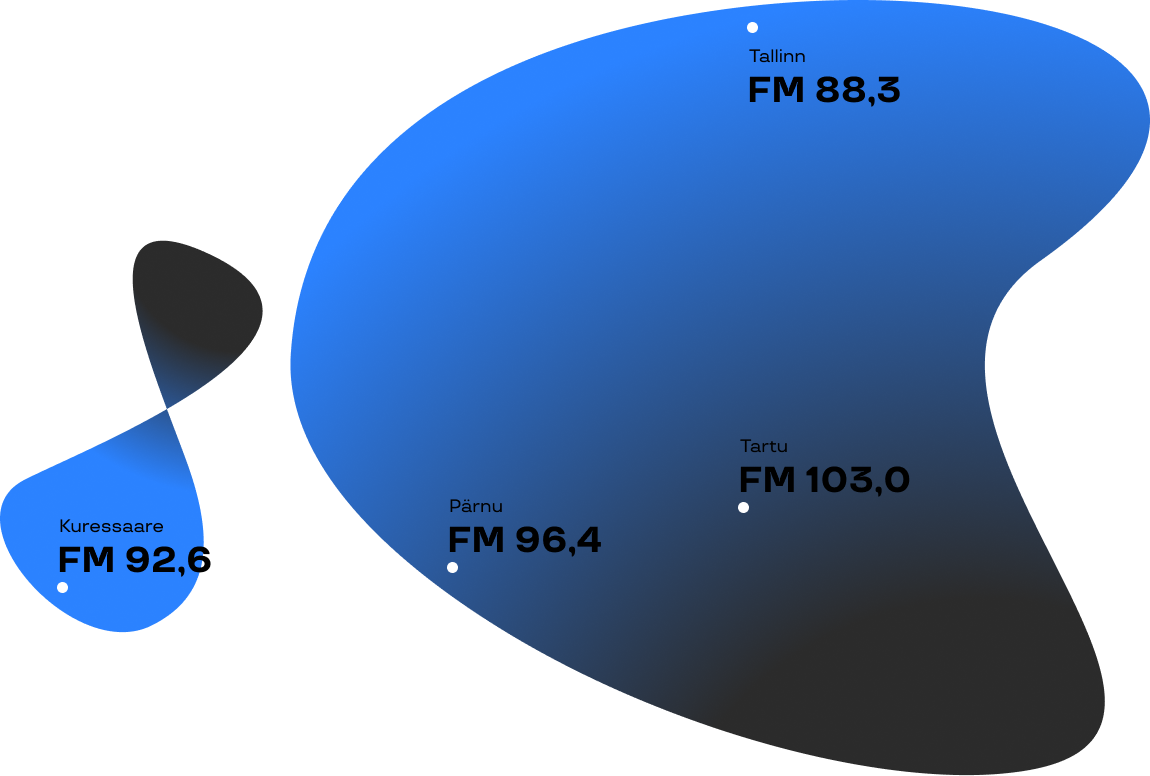
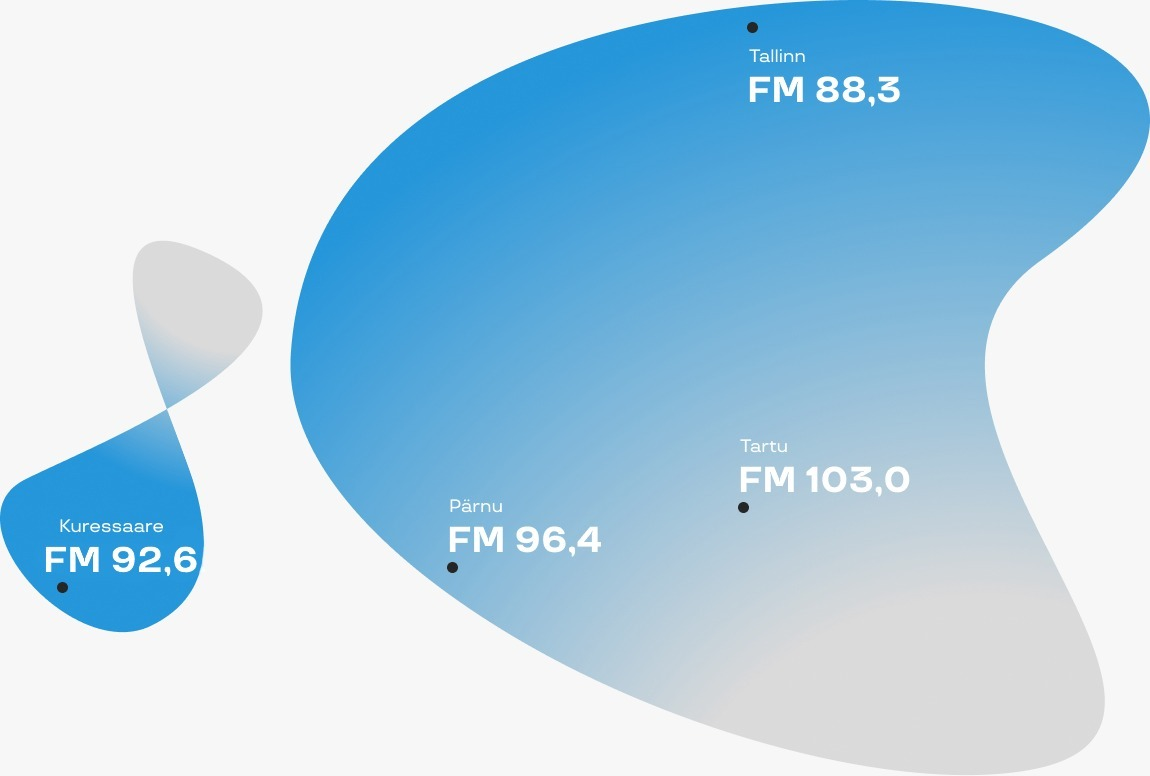
refactoring

diff --git a/index2.html b/index2.html
@@ -41,16 +41,12 @@
             </ul>
          </div>    
          <div class="col-md-1">
-            <img src="assets/languages-ru.svg">
-            <!-- <img src="assets/language-ee.svg"> -->
-            <!-- add link to page with another language -->
+            <a href= "/index.html"><img src="assets/languages-ru.svg"></div></a>
          </div>
       </nav>
 
-      <!-- player -->
       <div class="player">
     
-
         <input type="checkbox" id ="nav-toggle" class="nav-toggle">
         <div class= "nav-relax">
           <ul>
@@ -58,11 +54,11 @@
             <li><a id="RadioRelaxInternationalStream" href="#">Relax International</a></li>
             <li><a id="RadioRelaxIndoorStream" href="#">Relax Indoor</a></li>
             <li><a id="RadioRelaxCafeStream" href="#">Relax Cafe</a></li>
-            <li><a id="RadioRelaxStream" href="#">Relax ET</a></li>
+            <li><a id="RadioRelaxStream" href="#">Radio Relax</a></li>
           </ul>
         </div>
           <label for="nav-toggle" class="nav-toggle-label">
-            <span class="button-pl"><h1>Relax Radio</h1></span>
+            <span class="button-pl"><h1>Русский Relax</h1></span>
           </label>
           
               <div class="controls-pl">
@@ -77,10 +73,8 @@
                       <h1></h1> <h2><strong>Queen</strong>  --  Radio Gaga</h2>
   
                   </div>
-                  <!-- <div class="play-icon-volume"> -->
                      
                     <i class="play-icon-volume sound-up-down fa fa-volume-up"></i> 
-                  <!-- </div> -->
                   <div class="slidecontainer">
                       <input type="range" min="1" max="100" value="50" class="slider" id="myRange" oninput="SetVolume(this.value)" onchange="SetVolume(this.value)">
                   </div>
@@ -88,21 +82,19 @@
             </div>
 
     <section id="home">
-      <br class="first-line">
       <div class="slideshow-container">
-        
-
-        <div class="mySlides fade-animation">
-          <a href= "https://fb.com/relaxfm.ee"  target="_blank"><img src="img/banner3.png"  class="image-banner"></a>
-        </div>
-
-        <div class="mySlides fade-animation">
-            <img src="img/banner1.png" class="image-banner">
-          </div>
 
         <div class="mySlides fade-animation">
           <img src="img/banner2.png" class="image-banner">
         </div>
+
+        <div class="mySlides fade-animation">
+            <a href= "https://fb.com/relaxfm.ee"  target="_blank"><img src="img/banner1.png"  class="image-banner"></a>
+          </div>
+             
+      <div class="mySlides fade-animation">
+        <img src="img/banner3.png" class="image-banner">
+      </div>
 
         <a class="prev" onclick="plusSlides(-1)"><img src="/assets/arrow-left.svg"/></a>
         <a class="next" onclick="plusSlides(1)"><img src="/assets/arrow-right.svg"/></a>
@@ -118,7 +110,6 @@
     </section>
 
       <section id="programs">
-          <!-- <h1 >Programmid <img src="/assets/programs.svg" alt="programs"></h1> -->
           <div class="section-header">
               <h1>ПРОГРАММЫ <img src="img/ProgrammidIcon.png"/></h1>
             </div> 
@@ -151,7 +142,6 @@
                         получится Релакс версия. 
                         Известные песни в лёгком и волшебном звучании на Радио Релакс.
                     </p>
-                    <!-- <time>14:00 - 16:00</time> -->
                   </div>
                 </div>
               </div>
@@ -163,7 +153,6 @@
                         Есть песни, неподвластные времени... Они занимают особое место в сердце каждого человека. Как и много лет назад, сегодня под эти песни мечтают, живут и влюбляются. 
                         Лучшая  коллекция мировых и эстонских винтажных песен в рубрике «Релакс-винтаж».
                     </p>
-                    <!-- <time>16:00 - 18:00</time> -->
                   </div>
                   <div class="col-lg-4 program">
                     <h2>RELAX KINO</h2>
@@ -173,7 +162,6 @@
                         Многие песни, которые играют на Радио Релакс, являются саундтреками к фильмам,
                         о которых ты можешь даже не знать. Поэтому мы решили тебе о них рассказать в рубрике Relax kino.
                     </p>
-                    <!-- <time>18:00 - 20:00</time> -->
                   </div>
                 </div>
               </div>
@@ -283,28 +271,6 @@
     </section>
 
     <section id="contact">
-        <!-- <div class="section-header">
-            <h1>КОНТАКТ  <img src="/img/ReklaamIcon.png" /></h1>
-          </div> -->
-          <div class="container-fluid">
-            <!-- <div class="row">
-              <div class="col-md-4 col-sm-12">
-              <h3>Телефон для размещения рекламы на Raadio Relax FM –ХХХХХХХ </h3>
-              <p> +372 5908 7099</p>
-              <p>Raadioteenuse osutaja: Northstar Media OÜ</p>
-              </div>
-              <div class="col-md-4 col-sm-12">
-              <h3>Relax FM</h3>
-              <p>Astangu 36, 13519 Tallinn</p>
-              <p>+372 5908 7099</p>
-              <p>info@relaxfm.ee</p>
-                        </div>
-              <div class="col-md-4 col-sm-12">
-              <h3>Northstar Media OÜ</h3>
-              <p>Pärnu mnt 139e/11, 11317 Tallinn</p>
-              <p>+372 5908 7099</p>
-              <p>vital@northstar.ee</p>
-              </div>   -->
               <p>Телефон для размещения рекламы на Raadio Relax FM –ХХХХХХХ </p>
               <p>Aadress: Pärnu mnt. 139e/11, Tallinn 13517</p>
               <p>Raadioteenuse osutaja: Northstar Media OÜ </p>
@@ -315,7 +281,6 @@
           <div class="row">
             <div class="col-md-8 col-sm-12">
                   <img class="float-left" src="/img/GooglePlaylogo.png"/>
-                  <!-- <img class="float-left" src="/img/TuneInlogo.png"/> -->
             </div>
             <div class="col-md-4 col-sm-12">  
                 <a href="https://www.facebook.com/relaxfm.ee/" >
@@ -324,7 +289,6 @@
               <a href="https://www.instagram.com/relaxfm.ee/" >
                 <img class="float-right"src="/img/InstagramIcon.png"/>
               </a>
-              <!-- <img class="float-right" src="/img/TwitterIcon.png"/> -->
             </div>
           </div>  
         </div>
@@ -333,44 +297,6 @@
     <div id="googleMap"></div>
   </section>
 
-        <!-- <div class="musicbar">
-          <div class="music-play">
-          <div class="play-controls">
-          <div class="controls">
-              <div class="song-name">
-                  <h5>Jimi Hendrix</h5> <h5> - </h5>
-                  <span>All along the watchtower</span>
-              </div>
-              <div class="play-icon">
-                 
-                  <i class="fa fa-play"></i>
-                
-              </div>
-          </div>
-          <div class="music-progress">
-              <div class="progress">
-                  <div class="progress-bar">
-  
-                  </div>
-              </div>
-          </div>
-          </div>
-      </div>
-    </div> -->
-    <!-- <footer>
-        <div class="col-3">
-       <p>footer</p>
-        </div>
-     <div class="col-3">  
-       <ul class="unstyled-list">
-       <ul>
-         <li><strong>Hunger</strong></li>
-         <li>Disorder</li>
-         <li>Cataclisme</li>
-         <li>Parrot</li>
-         <li>Word</li>
-        </ul>
-        </footer> -->
         <script src="https://code.jquery.com/jquery-3.3.1.slim.min.js"
         integrity="sha384-q8i/X+965DzO0rT7abK41JStQIAqVgRVzpbzo5smXKp4YfRvH+8abtTE1Pi6jizo"
         crossorigin="anonymous"></script>

diff --git a/index.html b/index.html
@@ -39,16 +39,12 @@
         </ul>
             </div>
         <div class="col-md-1">
-            <img src="assets/languages-ru.svg">
-            <!-- <img src="assets/language-ee.svg"> -->
-            <!-- add link to page with another language -->
+            <a href= "/index2.html"><img src="assets/language-ee.svg"></a>
          </div>
       </nav>
 
-        <!-- player -->
         <div class="player">
     
-
             <input type="checkbox" id ="nav-toggle" class="nav-toggle">
             <div class= "nav-relax">
               <ul>
@@ -75,10 +71,8 @@
                           <h1></h1> <h2><strong>Queen</strong>  --  Radio Gaga</h2>
       
                       </div>
-                      <!-- <div class="play-icon-volume"> -->
                          
                         <i class="play-icon-volume sound-up-down fa fa-volume-up"></i> 
-                      <!-- </div> -->
                       <div class="slidecontainer">
                           <input type="range" min="1" max="100" value="50" class="slider" id="myRange" oninput="SetVolume(this.value)" onchange="SetVolume(this.value)">
                       </div>
@@ -86,19 +80,17 @@
                 </div>
    
     <section id="home">
-      <br class="first-line">
       <div class="slideshow-container">
-
           <div class="mySlides fade-animation">
-              <a href= "https://fb.com/relaxfm.ee"  target="_blank"><img src="img/banner3.png"  class="image-banner"></a>
+              <img src="img/banner2.png" class="image-banner">
             </div>
 
-            <div class="mySlides fade-animation">
-              <img src="img/banner1.png" class="image-banner">
-            </div>
+        <div class="mySlides fade-animation">
+            <a href= "https://fb.com/relaxfm.ee"  target="_blank"><img src="img/banner1.png"  class="image-banner"></a>
+          </div>
                
         <div class="mySlides fade-animation">
-          <img src="img/banner2.png" class="image-banner">
+          <img src="img/banner3.png" class="image-banner">
         </div>
 
         <a class="prev" onclick="plusSlides(-1)"><img src="/assets/arrow-left.svg"/></a>
@@ -115,7 +107,6 @@
     </section>
 
       <section id="programs">
-          <!-- <h1 >Programmid <img src="/assets/programs.svg" alt="programs"></h1> -->
           <div class="section-header">
               <h1>PROGRAMMID <img src="img/ProgrammidIcon.png"/></h1>
             </div> 
@@ -144,7 +135,6 @@
                     <p>
                       Kui võtta tuntud laul ja muuta selle muusikat või hoopiski sõnu, saame Relax-versiooni. Tuntud lood lummavas ja rahulikus kuues Raadio Relaxis.
                     </p>
-                    <!-- <time>14:00 - 16:00</time> -->
                   </div>
                 </div>
               </div>
@@ -156,14 +146,12 @@
                       On laule, millele ajahammas peale ei hakka... Neil on meie kõigi südames eriline koht. Nagu aastaid tagasi, nii unistatakse, elatakse ja armutakse nende lugude saatel praegugi. Ajatud laulud Eestist ja mujalt rubriigis Relax Vintage. 
 
                     </p>
-                    <!-- <time>16:00 - 18:00</time> -->
                   </div>
                   <div class="col-lg-4 program">
                     <h2>RELAX KINO</h2>
                     <p>
                       On filme, mis ei jäta kedagi külmaks. Neid vaadatakse üha uuesti. Lendlaused neist filmidest hakkavad elama oma elu ja filmis kõlanud muusika tuntakse ära esimesest taktist. Paljud lood, mida Raadio Relaxi eetris kuulda võib, on aga selliste filmide heliribalt, mida sa näinud pole. Seepärast räägime neist rubriigis Relax Kino.
                     </p>
-                    <!-- <time>18:00 - 20:00</time> -->
                   </div>
                 </div>
               </div>
@@ -248,28 +236,7 @@
     </section>
 
     <section id="contact">
-        <!-- <div class="section-header">
-            <h1>КОНТАКТ  <img src="/img/ReklaamIcon.png" /></h1>
-          </div> -->
           <div class="container-fluid">
-            <!-- <div class="row">
-              <div class="col-md-4 col-sm-12">
-              <h3>Телефон для размещения рекламы на Raadio Relax FM –ХХХХХХХ </h3>
-              <p> +372 5908 7099</p>
-              <p>Raadioteenuse osutaja: Northstar Media OÜ</p>
-              </div>
-              <div class="col-md-4 col-sm-12">
-              <h3>Relax FM</h3>
-              <p>Astangu 36, 13519 Tallinn</p>
-              <p>+372 5908 7099</p>
-              <p>info@relaxfm.ee</p>
-              </div>
-              <div class="col-md-4 col-sm-12">
-              <h3>Northstar Media OÜ</h3>
-              <p>Pärnu mnt 139e/11, 11317 Tallinn</p>
-              <p>+372 5908 7099</p>
-              <p>vital@northstar.ee</p>
-              </div>   -->
               <p>Reklaami tellimiseks Raadio Relax FM-i: +372 55625544</p>
               <p>Aadress: Pärnu mnt. 139e/11, Tallinn 13517</p>
               <p>Raadioteenuse osutaja: Northstar Media OÜ </p>
@@ -281,7 +248,6 @@
             <div class="col-md-8 col-sm-12">
                   
                   <img class="float-left" src="/img/GooglePlaylogo.png"/>
-                  <!-- <img class="float-left" src="/img/TuneInlogo.png"/> -->
             </div>
             <div class="col-md-4 col-sm-12">  
                 <a href="https://www.facebook.com/relaxfm.ee/" >
@@ -290,7 +256,6 @@
               <a href="https://www.instagram.com/relaxfm.ee/" >
                 <img class="float-right"src="/img/InstagramIcon.png"/>
               </a>
-              <!-- <img class="float-right" src="/img/TwitterIcon.png"/> -->
             </div>
           </div>  
         </div>
@@ -298,45 +263,6 @@
 
     <div id="googleMap"></div>
   </section>
-
-        <!-- <div class="musicbar">
-          <div class="music-play">
-          <div class="play-controls">
-          <div class="controls">
-              <div class="song-name">
-                  <h5>Jimi Hendrix</h5> <h5> - </h5>
-                  <span>All along the watchtower</span>
-              </div>
-              <div class="play-icon">
-                 
-                  <i class="fa fa-play"></i>
-                
-              </div>
-          </div>
-          <div class="music-progress">
-              <div class="progress">
-                  <div class="progress-bar">
-  
-                  </div>
-              </div>
-          </div>
-          </div>
-      </div>
-    </div> -->
-    <!-- <footer>
-        <div class="col-3">
-       <p>footer</p>
-        </div>
-     <div class="col-3">  
-       <ul class="unstyled-list">
-       <ul>
-         <li><strong>Hunger</strong></li>
-         <li>Disorder</li>
-         <li>Cataclisme</li>
-         <li>Parrot</li>
-         <li>Word</li>
-        </ul>
-        </footer> -->
         <script src="https://code.jquery.com/jquery-3.3.1.slim.min.js"
         integrity="sha384-q8i/X+965DzO0rT7abK41JStQIAqVgRVzpbzo5smXKp4YfRvH+8abtTE1Pi6jizo"
         crossorigin="anonymous"></script>

diff --git a/css/smoothscroll.css b/css/smoothscroll.css
@@ -1,4 +1,6 @@
-
+body{
+  background: #F7F7F7;
+}
 
 .navbar {
   position: fixed;
@@ -60,7 +62,7 @@ section#home{
   background: transparent;
 }
 section#radio-waves {
-  background: url(../assets/frequency-bg.svg) no-repeat top ;
+  background: url(../img/RadioMap.png) no-repeat top ;
   background-size: auto;
   height: 776px;
 }

diff --git a/css/sliderShow.css b/css/sliderShow.css
@@ -10,6 +10,7 @@
   width: 100%;
   position: relative;
   margin: auto;
+  margin-top: 30px;
 }
 
 /* Next & previous buttons */
